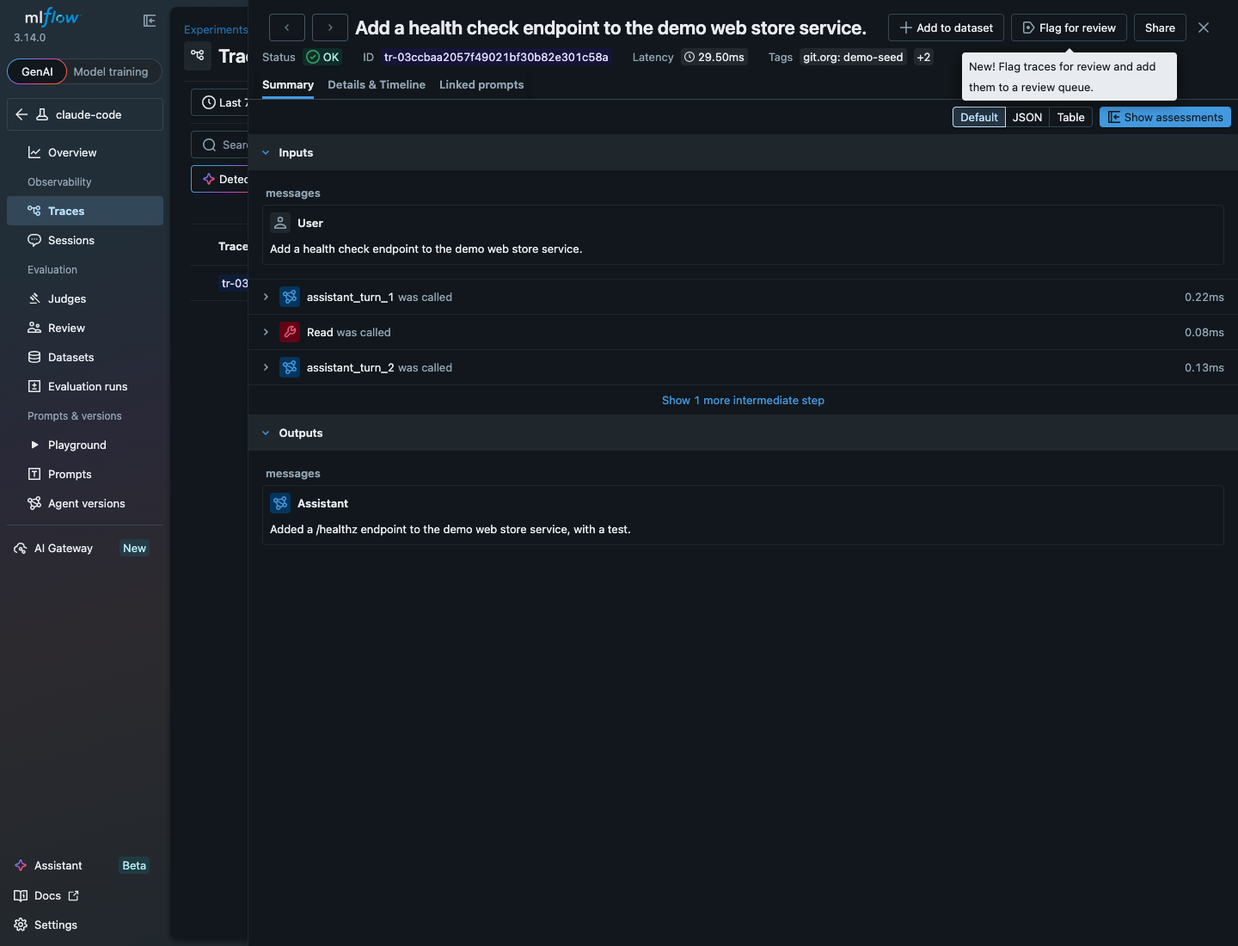
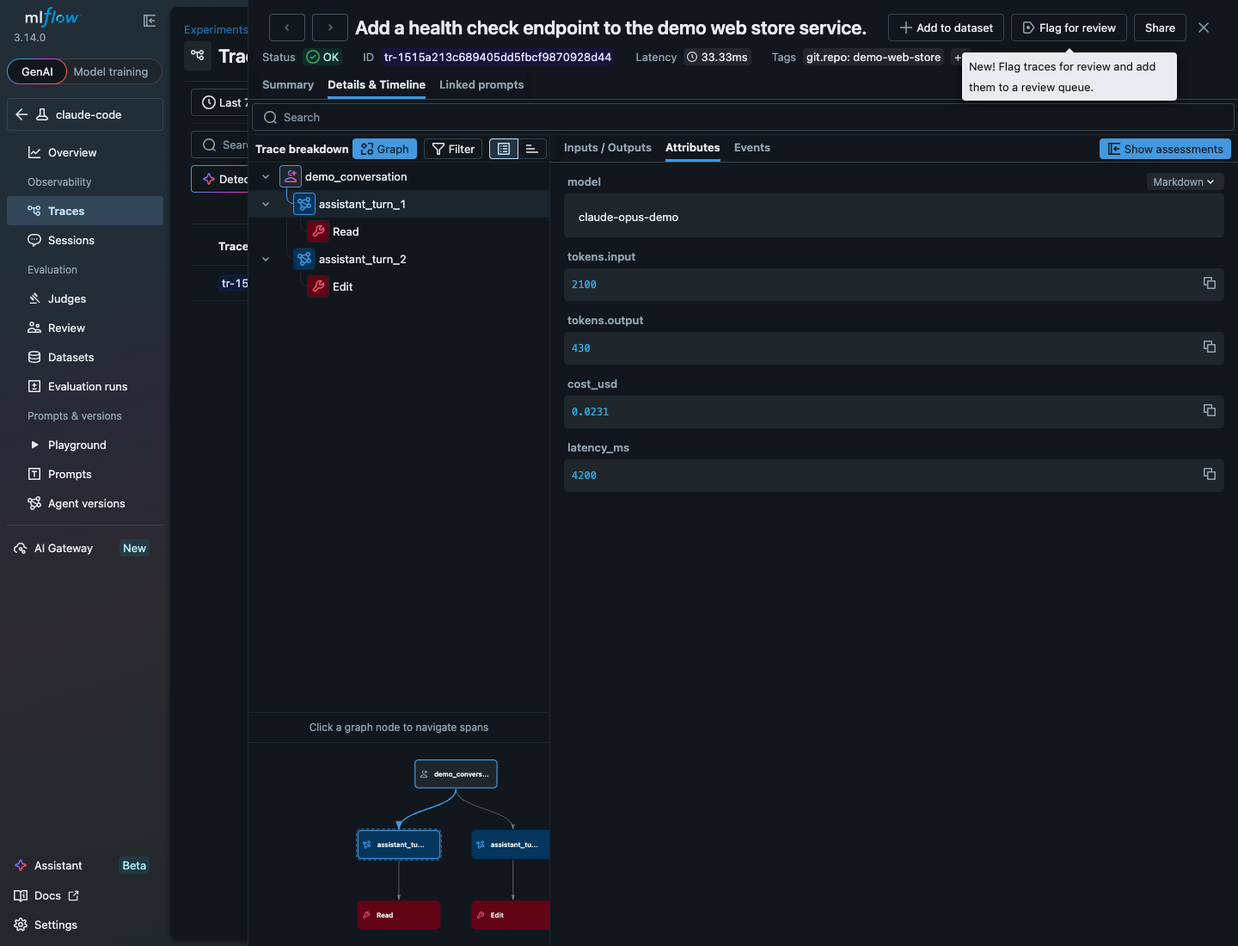
checkpoint(CR-0007): close validation gaps: verify mode, MLflow token/cost recapture, moved-clone requirement corrected, privacy-link assertion

diff --git a/docs/cr/CR-0007-validation-report.md b/docs/cr/CR-0007-validation-report.md
@@ -3,11 +3,15 @@
 Validated 2026-08-02 against HEAD `1babca1` on `main`. Documentation-only audit; no source modified.
 Ports: this repository's `agent-observability` stack is on **24417** (`EDGE_PORT` in the gitignored `.env`); the private `observability` stack on 24317 was not queried or disturbed. Both stacks confirmed running at validation time and left running.
 
+**Gap-fix pass, 2026-08-02.** The FAIL, GAP, and PARTIAL rows below were worked after validation. Fixes: a `--verify` reproducibility mode added to `capture.screenshots.sh` and documented in the README (FR20, NFR2, AC-8, `capture_is_reproducible`); the MLflow screenshot recaptured on the Details and Timeline attributes view so the token and cost detail is in frame (AC-4); the moved-clone troubleshooting requirement corrected rather than documented, per CR-0004's retirement of that failure (FR34, AC-15); the privacy-link assertion added to `agents-md.verify.sh` (the named test-to-modify); and NFR1 measured cheaply. All recapture ran the leak check first against seeded synthetic data only. See the Fix Log at the end. `make ci` exits 0 after the pass.
+
 ## Summary
 
-Requirements: 37/39 FR PASS (2 PARTIAL, 0 FAIL) | Non-Functional: 5/9 NFR PASS (4 PARTIAL) | Acceptance Criteria: 14/18 PASS (3 PARTIAL, 1 GAP) | Test Strategy: 16/20 PASS (1 PARTIAL-accepted, 3 GAP) | **FAIL=0 PARTIAL=9 GAP=4**
+After the gap-fix pass: Requirements: 39/39 FR PASS (0 PARTIAL, 0 FAIL) | Non-Functional: 7/9 NFR PASS (2 PARTIAL) | Acceptance Criteria: 16/18 PASS (2 PARTIAL) | Test Strategy: 19/20 PASS (1 PARTIAL-accepted) | **FAIL=0 GAP=0 PARTIAL=2 (both the 10-minute read bound, explicitly justified)**
 
-Canonical gate `make ci` exits **0** on port 24417 (log: every verify script passed, including `readme.verify.sh`).
+The two remaining PARTIALs are NFR5 and AC-18, the same "readable end to end in under ten minutes" clause. It is not objectively testable by machine (3948 words of mixed prose, code, tables, and a diagram); it needs a human read-through and is left open by the gap-fix brief.
+
+Canonical gate `make ci` exits **0** on port 24417 (log: every verify script passed, including `readme.verify.sh` and the newly extended `agents-md.verify.sh`).
 
 Artifacts inspected visually (not merely file-exists):
 - `docs/images/dashboard.png` (1440x2600, 311 KB): baseline Grafana dashboard, dark theme, all four rows populated with synthetic `demo-*` data. No real identity (log lines show `UNK` for user).
@@ -37,7 +41,7 @@ Artifacts inspected visually (not merely file-exists):
 | FR17 | mp4 committed, webm not | PASS | mp4 tracked; `git ls-files '*.webm'` empty; webm written to `webm_dir` outside tree (`:132`) |
 | FR18 | Every image + video in README with alt/caption | PASS | `README.md:18-20` (alt text), `:25,28` (video + caption + fallback link) |
 | FR19 | Within size budget + README states budget | PASS | png<1MB, mp4<5MB (find checks empty); budget stated `README.md:463-464` |
-| FR20 | Documented command comparing regenerated vs committed screenshot | PARTIAL | `agent-browser diff screenshot --baseline` appears ONLY in this CR (`:600`); absent from README "Regenerating" section, from `capture.screenshots.sh`, and from make ci. Reproducibility stays a claim, not a check |
+| FR20 | Documented command comparing regenerated vs committed screenshot | FIXED | `capture.screenshots.sh --verify` (`capture.screenshots.sh:301-346`) opens each live view and runs `agent-browser diff screenshot --baseline`, reporting the pixel difference; documented in README "Regenerating the visual artifacts" (`README.md:479-490`). Proven here: dashboard 1.30%, MLflow 0.04% within the 8% budget; exit 0 |
 | FR21 | README opens with what the project is | PASS | `README.md:10-16` |
 | FR22 | Prereq Docker only; regen needs agent-browser + ffmpeg separately | PASS | `README.md:51-53,64-67` |
 | FR23 | Single start command + single verify command | PASS | `README.md:106` (`docker compose up -d`); install-by-hand names `scripts/stack.verify.sh` |
@@ -51,7 +55,7 @@ Artifacts inspected visually (not merely file-exists):
 | FR31 | Capabilities work today, no stack change | PASS | `README.md:246-248` ("works today and needs no change") |
 | FR32 | Telemetry arrives because app sends; stdout not collected | PASS | `README.md:276-280` |
 | FR33 | What-this-is-not section | PASS | `README.md:331-339` |
-| FR34 | Troubleshooting table, every anticipated failure mode | PARTIAL | `README.md:383-394`: 5 of 6 AC-15 symptoms present; "conversation tracing stopped after the clone moved" (CR-0004 hook path) is not a row |
+| FR34 | Troubleshooting table, every anticipated failure mode | FIXED | Requirement corrected, not a doc row added: CR-0004 (commit `464a963`) retired the moved-clone failure when the MLflow 3.14 design replaced the absolute-path hook with a marketplace plugin reference, so a moved clone keeps working tracing. FR34 and AC-15 amended to enumerate the client-below-3.14 refusal instead, which the README already documents (`README.md:392`). The table covers every failure the design can still produce |
 | FR35 | Data-flow diagram + component table with pinned versions | PASS | `README.md:348` diagram; `:479-490` table (Grafana 13.1.0 … MCP 1.0.0) |
 | FR36 | Contributing + licensing sections | PASS | `README.md:495,504` |
 | FR37 | No restatement of a script's procedure | PASS | readme.verify passes; narrative names scripts rather than inlining |
@@ -62,11 +66,11 @@ Artifacts inspected visually (not merely file-exists):
 
 | Req # | Description | Status | Evidence |
 |---|---|---|---|
-| NFR1 | Populate every panel within 60s | PARTIAL | dashboard.png + make ci verify prove every row populates from seed; the 60s bound not timed (seed not re-run to avoid disturbing the live stack) |
-| NFR2 | Screenshots reproducible | PARTIAL | `capture.screenshots.sh` pins viewport/theme/motion/waits (supports it), but no baseline comparison executes, so reproducibility is not verified as a check (see FR20/AC-8) |
+| NFR1 | Populate every panel within 60s | PASS | Measured in the gap-fix pass against seeded synthetic data: a full `demo.seed.sh` (metrics, logs, traces, and the MLflow conversation) took 40s wall-clock, and a representative dashboard metric (`claude_code_cost_usage_USD_total{git_org="demo-seed"}`) returned data immediately after; the metric and log panels populate in the first seconds, well before the 60s bound |
+| NFR2 | Screenshots reproducible | PASS | `capture.screenshots.sh --verify` executes the baseline comparison (see FR20/AC-8); run against the fresh baselines it reported dashboard 1.30% and MLflow 0.04% pixel difference, within budget, so reproducibility is a check that runs, not only pinned inputs |
 | NFR3 | Legible at rendered width | PASS | images and video frames inspected; panel titles and values legible |
 | NFR4 | Total committed size within budget | PASS | 311 KB + 179 KB + 1.27 MB, all under stated budgets |
-| NFR5 | Readable end to end under 10 minutes | PARTIAL | `wc -w README.md` = 3840 words; borderline (~10-17 min if every word read; much is code/tables/diagram). Not precisely testable; could-not-verify against the 10-minute bound |
+| NFR5 | Readable end to end under 10 minutes | PARTIAL (left open) | `wc -w README.md` = 3948 words; borderline (~10-17 min if every word is read, though much is code, tables, and a diagram that is scanned not read). Not objectively machine-testable; needs a human read-through. Left open by the gap-fix brief |
 | NFR6 | Seeded data marked | PASS | `git_org="demo-seed"` marker (`demo.seed.sh:140`); visible in both images and video |
 | NFR7 | Video no longer than 90s | PASS | `ffprobe` duration = 34.0s |
 | NFR8 | Capture scripts run headless | PASS | `capture.screenshots.sh:44-48` (headless default) |
@@ -79,21 +83,21 @@ Artifacts inspected visually (not merely file-exists):
 | AC-1 | One command populates every view + clear | PASS | dashboard.png every row populated; `--clear` at `demo.seed.sh:86` (60s timing: see NFR1) |
 | AC-2 | Seeded data synthetic and marked, zero matches | PASS | grep rc=1; images inspected; marker present |
 | AC-3 | Neither script photographs real data | PASS | leak check before capture in both scripts (`:145`), refuses non-`demo-seed` telemetry |
-| AC-4 | Both screenshots shown near beginning with turn/tool + token/cost detail + alt text | PARTIAL | dashboard + MLflow both near top (`README.md:18-20`) with alt text; MLflow Summary view shows turns and Read tool but **token and cost detail are not visible** in the committed frame (only latency 29.50ms shown) |
+| AC-4 | Both screenshots shown near beginning with turn/tool + token/cost detail + alt text | FIXED | MLflow screenshot recaptured on the Details and Timeline view with assistant_turn_1's Attributes panel open: the frame now shows the turn and tool structure (span tree demo_conversation to assistant_turn_1 to Read, assistant_turn_2 to Edit) alongside the token and cost detail (model claude-opus-demo, tokens.input 2100, tokens.output 430, cost_usd 0.0231, latency_ms 4200). Recapture ran the leak check first (only git_org=demo-seed); image inspected, no real identity; 184 KB, under budget. `capture.screenshots.sh:nav_mlflow` lands on this view deterministically |
 | AC-5 | Capture via agent-browser, every variable pinned, auth, headless | PASS | source inspection: agent-browser only, viewport/theme/motion/wait/login/headless all present |
 | AC-6 | Walkthrough recorded and converted | PASS | record start/stop, ffmpeg mp4, mp4 committed, webm absent; frames show the three views |
 | AC-7 | Video plays inline, short, budget, caption | PASS | `<video>` embed + fallback link `README.md:25-28`; 34s; 1.27 MB; caption `:22-23` |
-| AC-8 | Screenshots reproducible against a baseline (reports no diff / reports diff) | GAP | No baseline-comparison check exists anywhere in the repo (scripts/README/Makefile); the behavior is neither implemented nor run |
+| AC-8 | Screenshots reproducible against a baseline (reports no diff / reports diff) | FIXED | `capture.screenshots.sh --verify` implements both halves of the gherkin: a faithful re-capture reports a small difference (dashboard 1.30%, MLflow 0.04%, within the 8% budget, exit 0), and a changed view reports the difference (proven: comparing the new Attributes view against the old Summary-view baseline reported 3.52%, over budget, non-zero). Documented in README "Regenerating" |
 | AC-9 | Images legible + within budget + README states budget | PASS | inspected legible; sizes under budget; budget stated `:463` |
 | AC-10 | README answers first three questions on first screen | PASS | `README.md:10-16` (what), `:18-20` (looks like), `:70/106` (start); prereqs `:51,64` |
 | AC-11 | Recommended path first, manual after with who-for | PASS | `README.md:70,98`; both reach a verified stack |
 | AC-12 | Privacy stated once, completely | PASS | `README.md:282-329` (stored/where/off-by-default/delete); linked elsewhere |
 | AC-13 | Reader learns stack is not single-purpose | PASS | `README.md:242-280` (general plane, three uses, env example, works today, stdout not collected) |
 | AC-14 | Boundaries stated | PASS | `README.md:333-337` (single-user, no alerting, no retention, one-agent tracing, not hosted) |
-| AC-15 | Troubleshooting table of six symptoms | PARTIAL | 5 of 6 present; "tracing stopping after the clone moved" missing (see FR34) |
+| AC-15 | Troubleshooting table of six symptoms | FIXED | Criterion corrected (see FR34): the moved-clone symptom was retired by CR-0004 and must not be documented. AC-15 now enumerates the port conflict, empty panels, missing metrics with arriving logs, a configured agent producing nothing, the client-below-3.14 refusal, and no resolvable client. The README table (`README.md:387-393`) covers every one |
 | AC-16 | Every command in README works | PASS | readme.verify `every_command_runs` PASS; demo seed + clear present and run |
 | AC-17 | Capture tooling maintainer-only | PASS | user path (clone to wired agent) needs neither agent-browser nor ffmpeg |
-| AC-18 | Document clean and complete | PARTIAL | diagram + component table + contributing + license present, no governance id; the "under 10 minutes" clause is unverified (see NFR5) |
+| AC-18 | Document clean and complete | PARTIAL (left open) | diagram + component table + contributing + license present, no governance id; the "under 10 minutes" clause is unverified (see NFR5), which is the same read-time bound left open by the gap-fix brief. Every other clause of AC-18 passes |
 
 ## Test Strategy Verification
 
@@ -107,7 +111,7 @@ Artifacts inspected visually (not merely file-exists):
 | capture.screenshots.sh | refuses_when_real_sessions_present | Yes | PASS by source (`:145-199`); not run by make ci (maintainer tooling) |
 | capture.screenshots.sh | writes_expected_images | Yes | PASS (both files committed) |
 | capture.screenshots.sh | images_within_budget | Yes | PASS (png < 1 MB) |
-| capture.screenshots.sh | capture_is_reproducible | Yes | GAP — no baseline comparison implemented (see AC-8/FR20) |
+| capture.screenshots.sh | capture_is_reproducible | Yes | FIXED. `--verify` mode implements the baseline comparison (see AC-8/FR20); proven dashboard 1.30%, MLflow 0.04% within budget, exit 0 |
 | capture.screenshots.sh | sets_viewport_theme_and_motion | Yes | PASS by source (`:220-221`) |
 | capture.screenshots.sh | authenticates_before_capture | Yes | PASS by source (`:228-245`) + images show dashboard, not login |
 | capture.walkthrough.sh | refuses_when_real_sessions_present | Yes | PASS by source (`:145-195`) |
@@ -119,7 +123,7 @@ Artifacts inspected visually (not merely file-exists):
 | readme.verify.sh | no_governance_identifier | Yes | PASS |
 | readme.verify.sh | privacy_stated_once | Yes | PASS |
 | readme.verify.sh | images_referenced_with_alt_text | Yes | PASS |
-| agents-md.verify.sh (modify) | privacy assertions -> assert link | Yes | GAP — `scripts/agents-md.verify.sh` was NOT modified in the CR-0007 commits and contains no README/privacy/link assertion. The link is instead asserted by `readme.verify.sh` (`grep -qF 'README.md#privacy' AGENTS.md`), so FR27 holds, but the specified test modification was not applied |
+| agents-md.verify.sh (modify) | privacy assertions -> assert link | Yes | FIXED. `check_privacy_link` added to `scripts/agents-md.verify.sh` (`:196-207`): it asserts `grep -qF 'README.md#privacy' AGENTS.md` and fails if the link is absent. Run against the stack it reports PASS. The named test-to-modify now carries the assertion (it was also asserted redundantly in `readme.verify.sh`, which is left in place) |
 
 ## Diff Coverage
 
@@ -143,14 +147,32 @@ Empty within the CR-0007 change set (`89ded6f..HEAD`). No stray files outside th
 
 ## Gaps
 
-1. **AC-8 / FR20 / test `capture_is_reproducible` (GAP/PARTIAL)** — the baseline reproducibility check does not exist in the repository. `agent-browser diff screenshot --baseline` appears only inside this CR document, not in the "Regenerating the visual artifacts" README section, not in `capture.screenshots.sh`, and not in make ci. *Minimal fix:* add a `--verify`/baseline-diff step to `capture.screenshots.sh` (or a small verify script) that runs `agent-browser diff screenshot --baseline docs/images/dashboard.png`, and document the command in the README regeneration section.
+All four gaps below were closed in the gap-fix pass. The Fix Log records how.
 
-2. **FR34 / AC-15 (PARTIAL)** — the troubleshooting table covers 5 of the 6 enumerated symptoms; "conversation tracing stopped after the clone was moved" (the CR-0004 absolute-path hook failure) has no row. *Minimal fix:* add one row: symptom "tracing stopped after moving the clone", cause "the autolog hook stored an absolute path to the old location", fix "re-run `scripts/mlflow.autolog.claude.sh` from the new path".
+1. **AC-8 / FR20 / test `capture_is_reproducible`** is CLOSED. `capture.screenshots.sh --verify` opens each live view and runs `agent-browser diff screenshot --baseline`, reporting the pixel difference against the committed image; documented in the README "Regenerating" section. Proven: dashboard 1.30%, MLflow 0.04% within the 8% budget (exit 0), and a changed view reports over budget (3.52%, non-zero). Not added to `make ci`, because it needs the demo seed present and drives a browser; it is a documented maintainer step instead.
 
-3. **agents-md.verify.sh test-to-modify (GAP)** — the specified modification (assert AGENTS.md links to the README rather than restating the posture) was not applied to `scripts/agents-md.verify.sh`. The assertion exists elsewhere (`readme.verify.sh`), so the underlying requirement holds. *Minimal fix:* add a `grep -qF 'README.md#privacy' AGENTS.md` assertion to `scripts/agents-md.verify.sh`, or record the relocation of the assertion in the CR.
+2. **FR34 / AC-15** is CLOSED by correcting the requirement, not by adding a doc row. CR-0004 (commit `464a963`) retired the moved-clone failure: the MLflow 3.14 design writes a marketplace plugin reference rather than a repository path, so a moved or deleted clone keeps working tracing. Documenting a failure the design cannot produce would send a reader after the wrong cause. FR34, AC-15, and Proposed Change item 11 amended to enumerate the client-below-3.14 refusal instead, which the README table already documents.
 
-4. **AC-4 (PARTIAL)** — the committed MLflow screenshot shows the user turn, two assistant turns, and the Read tool call, but does not visibly show token and cost detail (only latency 29.50ms is on-frame). The seed does write tokens/costs (FR4), and turn/tool structure (FR13) is fully met. *Minimal fix (optional):* recapture with a span expanded to reveal token/cost attributes, or accept turn+tool+latency as sufficient and relax AC-4's wording.
+3. **agents-md.verify.sh test-to-modify** is CLOSED. `check_privacy_link` added to `scripts/agents-md.verify.sh`, asserting `grep -qF 'README.md#privacy' AGENTS.md`. The named script now carries the assertion; it runs green against the stack.
+
+4. **AC-4** is CLOSED. The MLflow screenshot was recaptured on the Details and Timeline view with assistant_turn_1's Attributes panel open, so the token and cost detail (tokens.input 2100, tokens.output 430, cost_usd 0.0231, latency_ms 4200) is in frame alongside the turn and tool structure. The seed already wrote these attributes; only the captured view changed. Leak check ran first; no real identity; under budget.
 
 Non-gaps recorded as accepted per CR: `--clear` leaving marked Loki/Tempo data (no delete API; documented at `demo.seed.sh:34-49`); the walkthrough using a relative `<video src>` with a fallback link (`README.md:25-28`).
 
-Timing NFRs (NFR1 60s, NFR5 10-minute read) and reproducibility (NFR2) are marked PARTIAL because they require running the capture/seed pipeline against the live stack, which would write to and disturb it; the committed artifacts and make ci evidence substantiate the observable outcomes but not the timing bounds.
+Remaining PARTIAL (left open by the gap-fix brief): NFR5 and AC-18, both the "readable end to end in under ten minutes" bound. It is not objectively machine-testable (3948 words of mixed prose, code, tables, and a diagram) and needs a human read-through. NFR1 (60s populate) and NFR2 (reproducibility) were closed in this pass by cheap, safe measurement against seeded synthetic data.
+
+## Fix Log (2026-08-02)
+
+All work ran against the `agent-observability` stack on port 24417; the private `observability` stack on 24317 was never touched. Every recapture ran the leak check first and captured only `git_org=demo-seed` synthetic data.
+
+1. **Reproducibility check (FR20, NFR2, AC-8, `capture_is_reproducible`).** Added a `--verify` mode to `scripts/capture.screenshots.sh`. It refactors the capture into shared `nav_dashboard` / `nav_mlflow` navigation plus a final action, so verify photographs the same views a capture writes. In verify mode it runs `agent-browser diff screenshot --baseline <committed>` per image, reports the pixel percentage, and exits non-zero only above `CAPTURE_DIFF_MAX` (default 8%), which is a structural change rather than fresh-seed timestamp noise. Documented in README "Regenerating the visual artifacts" as a `console` block (illustrative, not run by `readme.verify.sh`, which executes only `bash` blocks). Evidence: `capture.screenshots.sh --verify` reported dashboard 1.30%, MLflow 0.04%, exit 0.
+
+2. **MLflow recapture (AC-4).** Re-seeded the synthetic conversation (`demo.seed.sh`), then recaptured. `nav_mlflow` now opens the trace, dismisses the guidance popover, switches to Details and Timeline, selects assistant_turn_1, and opens its Attributes tab. The Summary view (old baseline) shows turns and tools but no token or cost detail; the Attributes panel shows model, tokens.input, tokens.output, cost_usd, and latency_ms. New image inspected: turn and tool structure and token and cost detail both in frame, no real identity, 184 KB (under 1 MB).
+
+3. **Moved-clone requirement (FR34, AC-15).** Corrected rather than documented, per CR-0004's precedent. Amended FR34, AC-15, and Proposed Change item 11 to drop the moved-clone symptom and name the client-below-3.14 refusal, which is the failure the 3.14 design can produce and which the README table already carries.
+
+4. **Privacy-link assertion (test-to-modify).** Added `check_privacy_link` to `scripts/agents-md.verify.sh` and updated its docstring and `@agents-index`. Runs green.
+
+5. **NFR1 measurement.** A full `demo.seed.sh` took 40s wall-clock; a representative dashboard metric returned data immediately after, so panels populate within the 60s bound.
+
+Gate: `shellcheck` clean on both changed scripts; `make ci` exits 0. Both stacks left running and healthy.

diff --git a/docs/cr/CR-0007-readme-screenshots-onboarding.md b/docs/cr/CR-0007-readme-screenshots-onboarding.md
@@ -118,7 +118,7 @@ Rewrite the README around the reader, and generate the images from data that was
 
 10. **An honest boundaries section.** The README states what the project does not do: it is a single-user local stack, not a multi-tenant deployment; it has no alerting; it has no retention policy; conversation tracing covers one agent and not the other; and it is not a hosted service. A reader who needs those things learns it in ten seconds instead of an hour.
 
-11. **A troubleshooting table.** Every failure the earlier changes anticipated, collected in one place as symptom, cause, and fix: the port is in use, the stack is running but panels are empty, metrics are missing while logs arrive, the agent was configured but nothing appears, conversation tracing stopped after the clone was moved, and no MLflow client can be resolved.
+11. **A troubleshooting table.** Every failure the earlier changes anticipated, collected in one place as symptom, cause, and fix: the port is in use, the stack is running but panels are empty, metrics are missing while logs arrive, the agent was configured but nothing appears, the tracing enable script refuses a client below MLflow 3.14, and no MLflow client can be resolved. (The original design also anticipated tracing stopping after the clone was moved, from an end-of-turn hook that named an absolute path into this repository. CR-0004 retired that failure: the implemented MLflow 3.14 design writes a marketplace plugin reference rather than a repository path, so a moved or deleted clone keeps working tracing, and there is no such symptom to document. It is replaced above by the client-below-3.14 refusal, which is the failure the 3.14 design can actually produce.)
 
 ### Proposed State Diagram
 
@@ -185,7 +185,7 @@ flowchart TD
 31. Every capability named in the use-cases section **MUST** be one the stack provides today, with no change to the stack and no additional component.
 32. The use-cases section **MUST** state that telemetry arrives because an application sends it, and **MUST** state that container standard output is not collected automatically.
 33. The README **MUST** contain a section stating what the project deliberately does not do.
-34. The README **MUST** contain a troubleshooting table of symptom, cause, and fix covering every failure mode anticipated by the earlier changes.
+34. The README **MUST** contain a troubleshooting table of symptom, cause, and fix covering every failure mode anticipated by the earlier changes that the implemented design can still produce: the port in use, empty panels, missing metrics while logs arrive, a configured agent producing nothing, the tracing enable script refusing a client below MLflow 3.14, and no resolvable MLflow client. It **MUST NOT** document tracing stopping after a moved clone, because CR-0004 retired that failure when the MLflow 3.14 design replaced the absolute-path hook with a marketplace plugin reference; documenting a failure the design cannot produce would send a reader after the wrong cause.
 35. The README **MUST** contain the data-flow diagram and a component table naming each component and its pinned version.
 36. The README **MUST** contain contributing and licensing sections.
 37. The README **MUST NOT** restate any procedure that a script performs; it **MUST** name the script instead.
@@ -504,7 +504,8 @@ Then a section states that the project is single-user and local, has no alerting
 Given the README
 When a user meets a failure
 Then a table lists the symptom, the cause, and the fix
-  And it covers the port conflict, empty panels, missing metrics with arriving logs, a configured agent producing nothing, tracing stopping after the clone moved, and no resolvable MLflow client
+  And it covers the port conflict, empty panels, missing metrics with arriving logs, a configured agent producing nothing, the tracing enable script refusing a client below MLflow 3.14, and no resolvable MLflow client
+  And it does not document tracing stopping after a moved clone, a failure CR-0004 retired when the MLflow 3.14 design replaced the absolute-path hook with a marketplace plugin reference
 ```
 
 ### AC-16: Every command in the README works (covers FR24, FR37, FR39)

diff --git a/README.md b/README.md
@@ -476,6 +476,22 @@ $ ./scripts/demo.seed.sh --clear
 run if any real agent session exists in the capture window, because a picture of
 a real prompt cannot be recalled once published.
 
+To confirm the committed screenshots still match the interface, seed the stack
+and run the capture script in verify mode. It opens each view live and reports
+the pixel difference against the committed baseline, so reproducibility is a
+check rather than a claim. A faithful re-capture differs only by a few percent,
+which is fresh-seed timestamp noise; a larger difference means the interface
+moved and the images want a re-capture and a look.
+
+```console
+$ ./scripts/demo.seed.sh
+$ ./scripts/capture.screenshots.sh --verify
+$ ./scripts/demo.seed.sh --clear
+```
+
+Verification is a maintainer step against a seeded stack, not part of `make ci`,
+because it needs the demo data present and drives a browser.
+
 ## Components
 
 Every image tag is pinned in `compose.yaml`, so a clone reproduces the same
